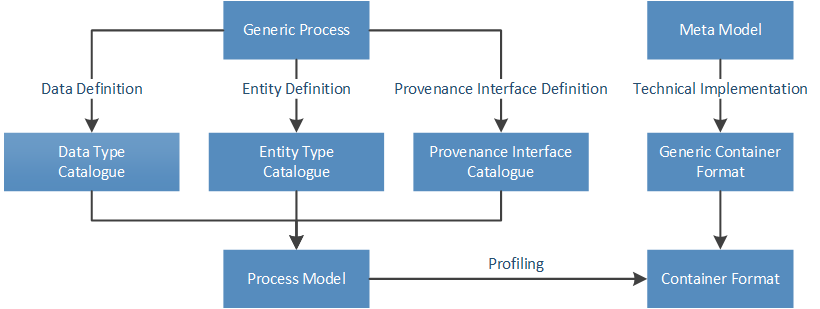
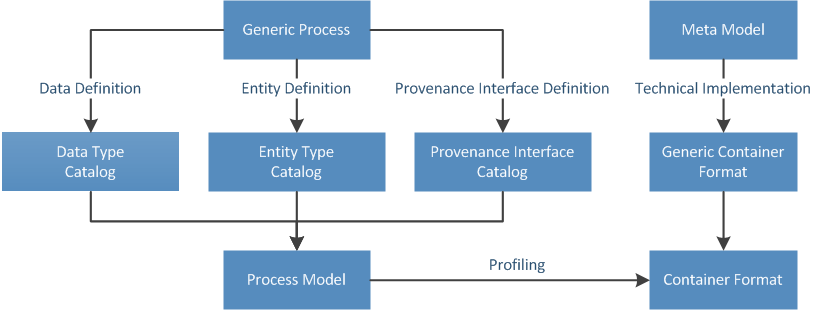
completed section 'The Framework'

diff --git a/doc/specification.md b/doc/specification.md
@@ -169,11 +169,11 @@ label for easier recognition.
 
 Potentially, an entity type is associated with the entity, to tell which values 
 are allowed or required. More on entity types can be found in section 
-"The Framework". Potentially a provenance is associated with the entity and in 
-case the provenance used some input entities to produce the described entity, 
-these input entities are referenced by their IDs as predecessors. 
-If the associated edition does not reference a profile the entity type and the
-provenance can be omitted. 
+"The Framework". Potentially a provenance description is included in the entity 
+header and in case the provenance used some input entities to produce the 
+described entity, these input entities are referenced by their IDs as 
+predecessors. If the associated edition does not reference a profile, the entity
+type and the provenance description can be omitted.
 
 All values of the entity are referenced by a value reference and if the 
 provenance was parameterized in some way, the provenance parameter set is 
@@ -293,6 +293,55 @@ container is the signature of the current edition.
 
 ## The Framework
 
+In this section, a short description is given, how to map an evidence processing
+work-flow to the generic process, described in section "The Generic Process".
+
+To map an evidence processing work-flow to the generic process, the process 
+steps need to be classified in two classes: 
+
+* Process steps, which take no input data, but produce output data 
+  (e.g. a measuring device or forensic software), 
+* and process steps, which take input data and produce output data 
+  (e.g. some kind of pre-processing or feature extraction).
+
+The first class is mapped to entity sources and the second class is mapped to 
+the transformations. Both classes of process steps can be parameterized and 
+their parameter set is encoded in an octet stream. Data in the process is 
+defined as a group of values and every value is encoded in an octet stream. 
+A group of semantic associated values is mapped to an entity.
+
+To define the mapping of an evidence processing work-flow to the generic 
+process, three catalogs need to be defined. One for data types, one for entity 
+types and one for provenance interfaces (see the left part in 
+[Figure 11](#fig_framework)). All items in the three catalogs are identified 
+by global unique identifiers.
+
+<a name="fig_framework"></a>
+![Framework][fig:framework]
+
+*Figure 11: Framework for profiling the container format with a process model*
+
+The data types are used to specify the encoding of entity values and provenance 
+parameter sets into octet streams. The entity types define the format for all 
+entities in the process by specifying the required and optional values including
+their data types. The description of a provenance interface must list the entity
+types of input entities and the entity type of the output entity.
+
+The description of the actual provenance, implementing the provenance interface
+from the provenance interface catalog, is not given in the container profile, 
+but in the container itself.
+
+E.g., if multiple cameras are used in the process to produce color images, 
+then a data type definition for the image file format is needed in the data type
+catalog (e.g. `JPEG_File`), an entity type definition in the entity type catalog
+is needed, referencing the data type for one of its values 
+(e.g. `Capture_Result` with `image.jpg` as `JPEG_File`) and one provenance 
+interface description in the provenance interface catalog is needed 
+(e.g. `Capture_Device`) taking no input entities and producing an output entity 
+of the entity type `Capture_Result`. If a container is formed with an image from
+one of the cameras, the used camera represents the actual provenance and need to
+be described thoroughly with the provenance description in the entity header,
+e.g. with vendor, model name and serial number.
 
 ## Technical Implementation
 
